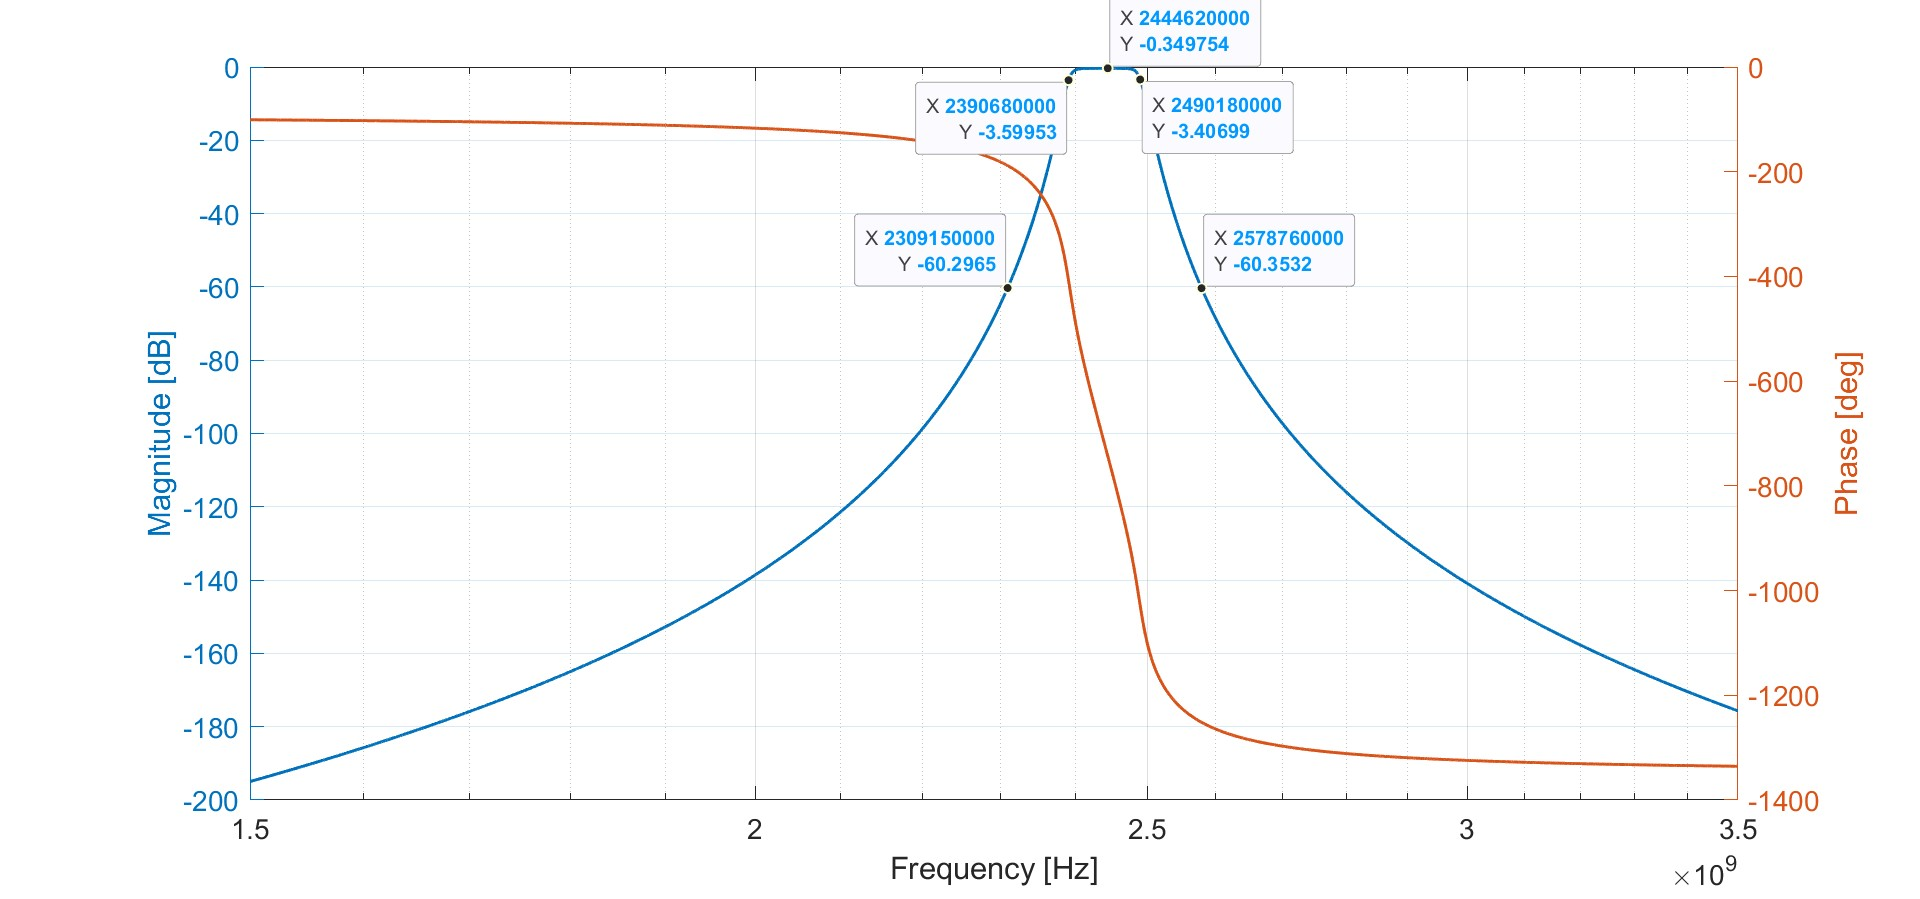
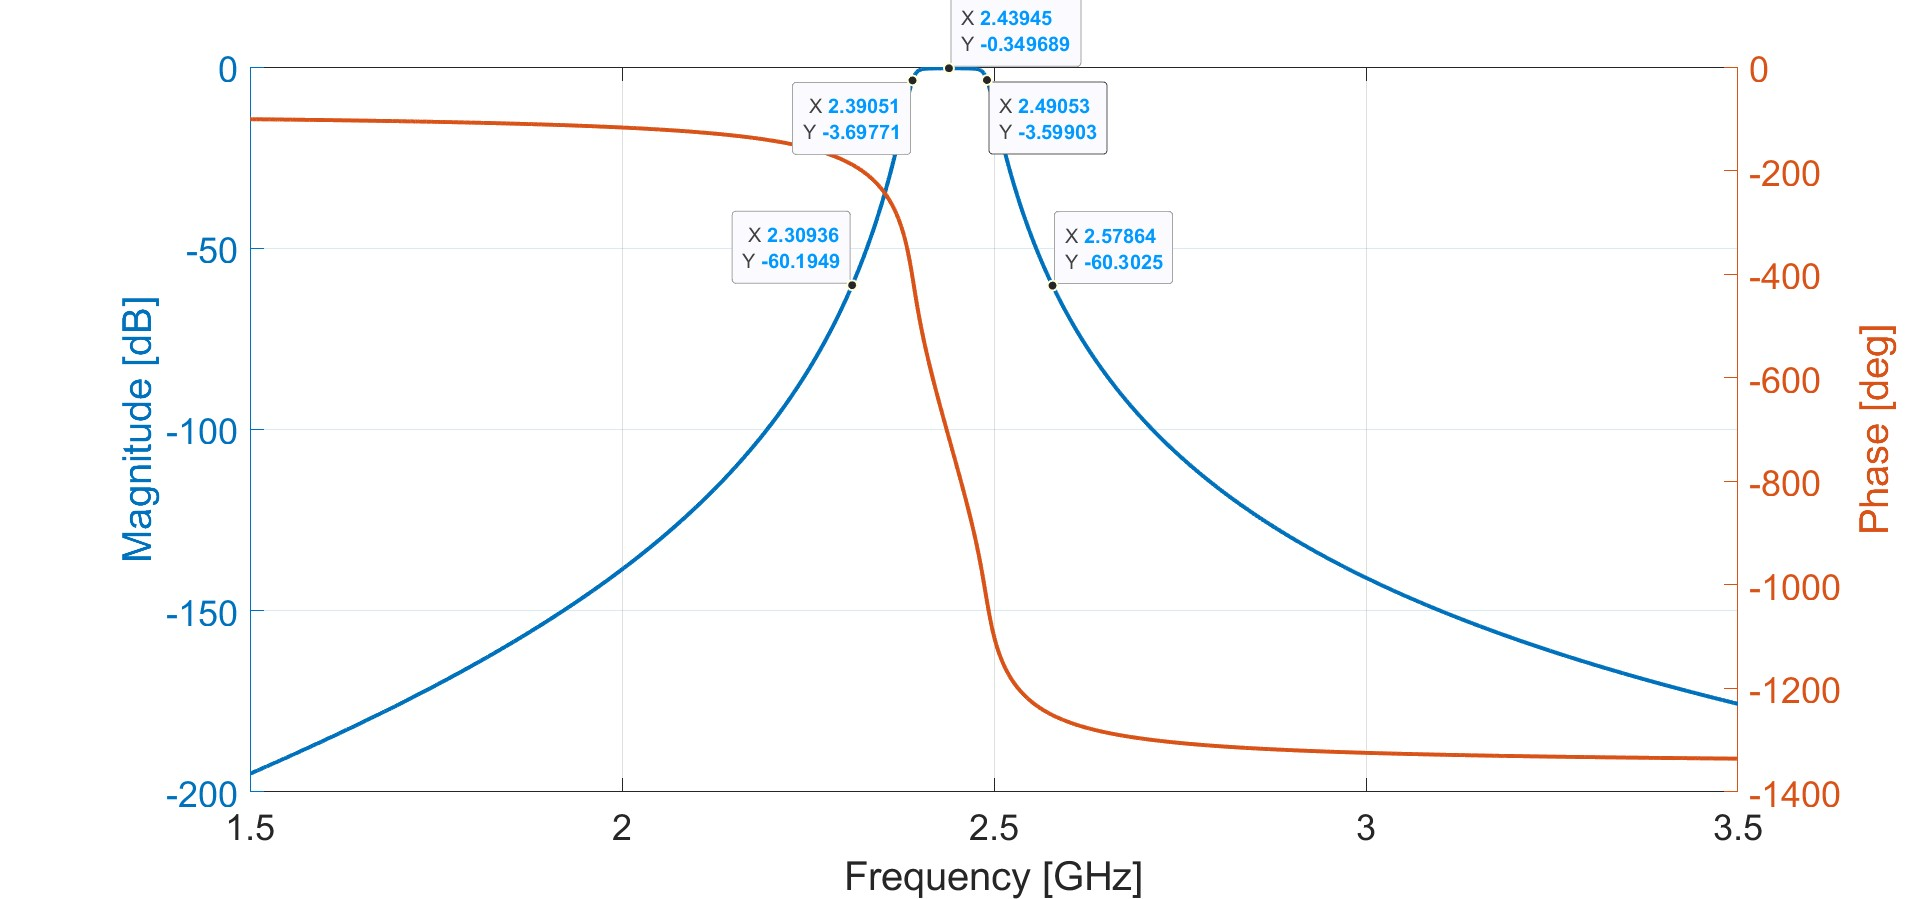
changes to plots for readability and minor fixes

diff --git a/rf_front_end/bandpass_filter/matlab_plot_scripts/bandpass_plot_script_with_tolerances.m b/rf_front_end/bandpass_filter/matlab_plot_scripts/bandpass_plot_script_with_tolerances.m
@@ -1,27 +1,26 @@
-% Open the file
 A = readtable('bandpass_scaled_tolerances.txt');
 R = rmmissing(A);
-R1 = R(1:369, :);
+
+R1 = R(1:369,:);
 R2 = R(370:738,:);
 R3 = R(739:1107,:);
 R4 = R(1108:1476,:);
 R5 = R(1477:1845,:);
-s = semilogx(R1.(1), R1.(2));
+s = semilogx(R1.(1)*1E-9, R1.(2));
 s(1).LineWidth = 1.4;
 hold on
-s1 = semilogx(R2.(1), R2.(2));
+s1 = semilogx(R2.(1)*1E-9, R2.(2));
 s1(1).LineWidth = 1.4;
 hold on
-s2 = semilogx(R3.(1), R3.(2));
+s2 = semilogx(R3.(1)*1E-9, R3.(2));
 s2(1).LineWidth = 1.4;
 hold on
-s3 = semilogx(R4.(1), R4.(2));
+s3 = semilogx(R4.(1)*1E-9, R4.(2));
 s3(1).LineWidth = 1.4;
 hold on
-s4 = semilogx(R5.(1), R5.(2));
+s4 = semilogx(R5.(1)*1E-9, R5.(2));
 s4(1).LineWidth = 1.4;
-xlabel('Frequency [Hz]','FontSize',12);
-ylabel('Magnitude [dB]','FontSize',12);
-set(gca,'FontSize',14);
+xlabel('Frequency [GHz]','FontSize',14);
+ylabel('Magnitude [dB]','FontSize',14);
+set(gca,'FontSize',18);
 grid on
-% good coding yesyes 🦧🦧🦅🦅

diff --git a/rf_front_end/bandpass_filter/matlab_plot_scripts/bandpass_plot_script_no_tolerances.m b/rf_front_end/bandpass_filter/matlab_plot_scripts/bandpass_plot_script_no_tolerances.m
@@ -5,17 +5,17 @@ FullFileA1 = fullfile(PathA1,FileA1);
 unwrapPhase = rad2deg(unwrap(deg2rad(phaseFound)));
 figure
 yyaxis left
-s = semilogx(Freq1, dBfund1);
-xlabel('Frequency [Hz]','FontSize',12);
+s = plot(Freq1*1E-9, dBfund1);
+xlabel('Frequency [GHz]','FontSize',12);
 ylabel('Magnitude [dB]','FontSize',12);
-s(1).LineWidth = 1.4;
+s(1).LineWidth = 1.8;
 set(gca,'FontSize',14);
 hold on
 yyaxis right
-s1 = semilogx(Freq1, unwrapPhase);
+s1 = plot(Freq1*1E-9, unwrapPhase)
 ylabel('Phase [deg]','FontSize',12);
-s1(1).LineWidth = 1.4;
-set(gca,'FontSize',14);
+s1(1).LineWidth = 1.8;
+set(gca,'FontSize',18);
 grid on;
 
 [max_num, max_idx]=max(dBfund1(:));

diff --git a/rf_front_end/bandpass_filter/bandpass_plot.m b/rf_front_end/bandpass_filter/bandpass_plot.m
@@ -28,7 +28,7 @@ ylabel('Magnitude [dB]');
 
 % Plot the phase response (right y-axis)
 yyaxis right;
-semilogx(Freq, degree, '--', 'LineWidth', 3);
+semilogx(Freq, unwrap(degree), '--', 'LineWidth', 3);
 ylabel('Phase [°]', 'Interpreter', 'latex');
 
 % Label x-axis and add title
